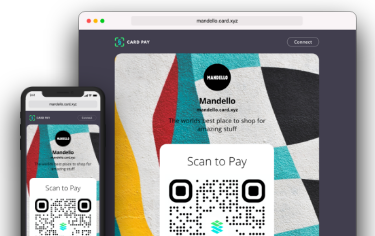
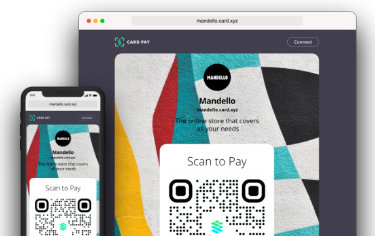
[CS-4638, CS-4639] Profile purchase flow copy changes (#1065)
* Renames ProfileCTAScreen to ProfilePurchaseScreen - for improved consistency with other profile screens;
Refactor uses of old name to new one.

* Updates copy on profile purchase feature.

* Adds disclaimer about purchase price in ProfileSlugScreen

* Updates profile preview images (new copy)

* Refactors useInitIAPProducts and usePurchaseProfile to return the localized price ready to use.

Changed region(s): [[0.44, 0.4746, 0.704, 0.5636], [0.1467, 0.6822, 0.264, 0.7415], [0.088, 0.6822, 0.1173, 0.7119]]

diff --git a/cardstack/src/hooks/usePurchaseProfile.ts b/cardstack/src/hooks/usePurchaseProfile.ts
@@ -1,6 +1,6 @@
 import { useNavigation } from '@react-navigation/native';
 import { useCallback, useEffect, useMemo } from 'react';
-import { useIAP } from 'react-native-iap';
+import { useIAP, Product } from 'react-native-iap';
 
 import { defaultErrorAlert } from '@cardstack/constants';
 import { Routes, useLoadingOverlay } from '@cardstack/navigation';
@@ -16,8 +16,37 @@ import { useMutationEffects } from '.';
 // TODO: Fetch Product IDs from hub.
 const skus = { profile: '0001' };
 
+const strings = {
+  loading: 'Loading...',
+  processingPurchase: 'Processing Purchase',
+};
+
+const defaultProfilePrice = '$0.99';
+
+// Helper function to find the profile product.
+const findProfileProduct = (products: Product[]) =>
+  products.find(
+    prod => prod.productId === skus.profile && prod.type === Device.iap.type
+  );
+
+const getLocalizedPriceOrFallback = (product?: Product) =>
+  product?.localizedPrice || defaultProfilePrice;
+
+/**
+ * useInitIAPProducts hook to be called as soon as possible to prepare for purchases.
+ * @returns profileProduct: Product, filtered product matching profile specs.
+ */
 export const useInitIAPProducts = () => {
-  const { getProducts } = useIAP();
+  const { getProducts, products } = useIAP();
+
+  const profileProduct = useMemo(() => findProfileProduct(products), [
+    products,
+  ]);
+
+  const localizedPrice = useMemo(
+    () => getLocalizedPriceOrFallback(profileProduct),
+    [profileProduct]
+  );
 
   /**
    * Fetches IAPs descriptions and succesfull purchases.
@@ -25,6 +54,8 @@ export const useInitIAPProducts = () => {
   useEffect(() => {
     getProducts(Object.values(skus));
   }, [getProducts]);
+
+  return { profileProduct, localizedPrice };
 };
 
 export const usePurchaseProfile = (profile: CreateProfileInfoParams) => {
@@ -52,6 +83,8 @@ export const usePurchaseProfile = (profile: CreateProfileInfoParams) => {
           status: isSuccess,
           callback: () => {
             if (currentPurchase) {
+              dismissLoadingOverlay();
+
               try {
                 // Valid purchases need to be finalized, otherwise they may reverse.
                 finishTransaction(currentPurchase, Device.iap.isConsumable);
@@ -90,12 +123,13 @@ export const usePurchaseProfile = (profile: CreateProfileInfoParams) => {
     )
   );
 
-  const profileProduct = useMemo(
-    () =>
-      products.find(
-        prod => prod.productId === skus.profile && prod.type === Device.iap.type
-      ),
-    [products]
+  const profileProduct = useMemo(() => findProfileProduct(products), [
+    products,
+  ]);
+
+  const localizedPrice = useMemo(
+    () => getLocalizedPriceOrFallback(profileProduct),
+    [profileProduct]
   );
 
   /**
@@ -104,8 +138,9 @@ export const usePurchaseProfile = (profile: CreateProfileInfoParams) => {
   const purchaseProfile = useCallback(async () => {
     if (profileProduct) {
       try {
-        showLoadingOverlay();
+        showLoadingOverlay({ title: strings.loading });
         await requestPurchase(profileProduct.productId);
+        showLoadingOverlay({ title: strings.processingPurchase });
       } catch (e) {
         dismissLoadingOverlay();
         logger.sentry('Error purchasing product', e);
@@ -154,5 +189,6 @@ export const usePurchaseProfile = (profile: CreateProfileInfoParams) => {
   return {
     purchaseProfile,
     profileProduct,
+    localizedPrice,
   };
 };

diff --git a/cardstack/src/screens/Profile/ProfilePurchaseScreen/useProfilePurchaseScreen.ts b/cardstack/src/screens/Profile/ProfilePurchaseScreen/useProfilePurchaseScreen.ts
@@ -1,5 +1,5 @@
 import { useNavigation, useRoute } from '@react-navigation/native';
-import { useCallback, useMemo } from 'react';
+import { useCallback } from 'react';
 
 import { useBooleanState, useRemoteConfigs } from '@cardstack/hooks';
 import { useCreateProfile } from '@cardstack/hooks/merchant/useCreateProfile';
@@ -14,12 +14,11 @@ import { isLayer1 } from '@cardstack/utils';
 import { Alert } from '@rainbow-me/components/alerts';
 import { useAccountSettings } from '@rainbow-me/hooks';
 
-const defaultPrice = '$0.99';
 interface NavParams {
   profile: CreateProfileInfoParams;
 }
 
-export const usePurchaseCTAScreen = () => {
+export const useProfilePurchaseScreen = () => {
   const { navigate } = useNavigation();
 
   const { network, accountAddress, nativeCurrency } = useAccountSettings();
@@ -41,18 +40,15 @@ export const usePurchaseCTAScreen = () => {
     params: { profile },
   } = useRoute<RouteType<NavParams>>();
 
-  const { purchaseProfile, profileProduct } = usePurchaseProfile(profile);
+  const { purchaseProfile, localizedPrice } = usePurchaseProfile(profile);
 
   const { purchaseWithPrepaidCard } = useCreateProfile(profile);
 
-  const localizedValue = useMemo(
-    () => profileProduct?.localizedPrice || defaultPrice,
-    [profileProduct]
-  );
-
   const onPressChargeExplanation = useCallback(() => {
-    navigate(Routes.PROFILE_CHARGE_EXPLANATION, { localizedValue });
-  }, [localizedValue, navigate]);
+    navigate(Routes.PROFILE_CHARGE_EXPLANATION, {
+      localizedValue: localizedPrice,
+    });
+  }, [localizedPrice, navigate]);
 
   const [
     inPurchaseOngoing,
@@ -83,7 +79,7 @@ export const usePurchaseCTAScreen = () => {
     inPurchaseOngoing,
     onPressPrepaidCards: purchaseWithPrepaidCard,
     showPrepaidCardOption,
-    localizedValue,
+    localizedPrice,
     triggerSkipProfileCreation,
   };
 };

diff --git a/cardstack/src/screens/Profile/ProfilePurchaseScreen/ProfilePurchaseScreen.tsx b/cardstack/src/screens/Profile/ProfilePurchaseScreen/ProfilePurchaseScreen.tsx
@@ -16,25 +16,25 @@ import {
 import profilePreview from '../../../assets/profile-preview.png';
 
 import { strings } from './strings';
-import { usePurchaseCTAScreen } from './usePurchaseCTAScreen';
+import { useProfilePurchaseScreen } from './useProfilePurchaseScreen';
 
 interface BenefitsItem {
   iconName: IconName;
   copy: string;
 }
 
-const PurchaseCTAScreen = () => {
+const ProfilePurchaseScreen = () => {
   const {
     onPressChargeExplanation,
     onPressBuy,
     inPurchaseOngoing,
-    localizedValue,
+    localizedPrice,
     onPressPrepaidCards,
     showPrepaidCardOption,
     triggerSkipProfileCreation,
-  } = usePurchaseCTAScreen();
+  } = useProfilePurchaseScreen();
 
-  const purchaseBtnLabel = `${strings.button.purchase} ${localizedValue}`;
+  const purchaseBtnLabel = `${strings.button.purchase} ${localizedPrice}`;
 
   const BenefitsItem = useCallback(
     ({ iconName, copy }: BenefitsItem) => (
@@ -115,4 +115,4 @@ const styles = StyleSheet.create({
   iapPreview: { width: '100%', flex: 0.5 },
 });
 
-export default PurchaseCTAScreen;
+export default ProfilePurchaseScreen;

diff --git a/cardstack/src/screens/Profile/ProfileSlugScreen/useProfileSlugScreen.ts b/cardstack/src/screens/Profile/ProfileSlugScreen/useProfileSlugScreen.ts
@@ -11,7 +11,7 @@ import { matchMinLength } from '@cardstack/utils/validators';
 import { strings, MIN_SLUG_LENGTH } from './strings';
 
 export const useProfileSlugScreen = () => {
-  useInitIAPProducts();
+  const { localizedPrice } = useInitIAPProducts();
 
   const { navigate } = useNavigation();
 
@@ -80,6 +80,11 @@ export const useProfileSlugScreen = () => {
     [isFetching, isLoading, slugValidation.slugAvailable]
   );
 
+  const purchaseDisclaimer = useMemo(
+    () => strings.purchaseDisclaimer(localizedPrice),
+    [localizedPrice]
+  );
+
   const { triggerSkipProfileCreation } = usePersistedFlagsActions();
 
   return {
@@ -89,5 +94,6 @@ export const useProfileSlugScreen = () => {
     slugValidation,
     canContinue,
     triggerSkipProfileCreation,
+    purchaseDisclaimer,
   };
 };

diff --git a/cardstack/src/screens/Profile/ProfileSlugScreen/strings.ts b/cardstack/src/screens/Profile/ProfileSlugScreen/strings.ts
@@ -4,10 +4,12 @@ export const MIN_SLUG_LENGTH = 4;
 
 export const strings = {
   header: 'Choose a unique ID that others can use to send you money',
+  purchaseDisclaimer: (price: string) =>
+    `* Creating a payment profile will require a one-time ${price} fee.`,
   input: {
     domainSuffix: cardSpaceDomain,
     description:
-      'This unique ID will be used to identify your payment profile. Please note this ID cannot be changed once the profile is created and may be used as a contact address.',
+      'This unique ID will be used to identify your payment profile.* Please note this ID cannot be changed once the profile is created and may be used as a contact address.',
   },
   errors: {
     minLength: `ID must be at least ${MIN_SLUG_LENGTH} characters long`,

diff --git a/cardstack/src/navigation/screenGroups/profile.tsx b/cardstack/src/navigation/screenGroups/profile.tsx
@@ -7,7 +7,7 @@ import {
 import {
   ProfileNameScreen,
   ProfileSlugScreen,
-  ProfilePurchaseCTA,
+  ProfilePurchaseScreen,
   ProfileChargeExplanationScreen,
 } from '@cardstack/screens';
 
@@ -24,8 +24,8 @@ export const ProfileScreenGroup = ({ Stack }: { Stack: StackType }) => (
     <Stack.Screen component={ProfileSlugScreen} name={Routes.PROFILE_SLUG} />
     <Stack.Screen component={ProfileNameScreen} name={Routes.PROFILE_NAME} />
     <Stack.Screen
-      component={ProfilePurchaseCTA}
-      name={Routes.PROFILE_PURCHASE_CTA}
+      component={ProfilePurchaseScreen}
+      name={Routes.PROFILE_PURCHASE}
     />
     <Stack.Screen
       component={ProfileChargeExplanationScreen}

diff --git a/cardstack/src/screens/Profile/ProfilePurchaseScreen/strings.ts b/cardstack/src/screens/Profile/ProfilePurchaseScreen/strings.ts
@@ -1,11 +1,11 @@
 import { cardSpaceSuffix } from '@cardstack/constants';
 
 export const strings = {
-  title: 'Purchase a CardSpace\nProfile to do the following:',
+  title: 'Create a payment profile to:',
   benefits: {
-    payments: 'Accept payments from customers',
-    cardProfile: `Setup a profile page on ${cardSpaceSuffix}`,
-    rewards: 'Earn Rewards in the Card Ecosystem',
+    payments: 'Send & receive payments',
+    cardProfile: `Get your own profile page on ${cardSpaceSuffix}`,
+    rewards: 'Earn rewards in the Cardstack ecosystem',
   },
   button: {
     purchase: 'Buy for',

diff --git a/cardstack/src/screens/Profile/ProfileSlugScreen/ProfileSlugScreen.tsx b/cardstack/src/screens/Profile/ProfileSlugScreen/ProfileSlugScreen.tsx
@@ -21,6 +21,7 @@ const ProfileSlugScreen = () => {
     canContinue,
     onContinuePress,
     triggerSkipProfileCreation,
+    purchaseDisclaimer,
   } = useProfileSlugScreen();
 
   return (
@@ -51,6 +52,9 @@ const ProfileSlugScreen = () => {
               {strings.input.description}
             </Text>
           </Container>
+          <Text paddingTop={2} variant="pageDescriptionSmall">
+            {purchaseDisclaimer}
+          </Text>
         </Container>
       </Container>
       <PageWithStackHeaderFooter>

diff --git a/cardstack/src/screens/Profile/index.ts b/cardstack/src/screens/Profile/index.ts
@@ -1,4 +1,4 @@
 export { default as ProfileNameScreen } from './ProfileNameScreen/ProfileNameScreen';
 export { default as ProfileSlugScreen } from './ProfileSlugScreen/ProfileSlugScreen';
-export { default as ProfilePurchaseCTA } from './PurchaseCTAScreen/PurchaseCTAScreen';
+export { default as ProfilePurchaseScreen } from './ProfilePurchaseScreen/ProfilePurchaseScreen';
 export { default as ProfileChargeExplanationScreen } from './ProfileChargeExplanationScreen/ProfileChargeExplanationScreen';

diff --git a/cardstack/src/screens/ProfileScreen/components/strings.ts b/cardstack/src/screens/ProfileScreen/components/strings.ts
@@ -7,7 +7,8 @@ export const strings = {
   example: 'Example:',
   switchToGnosisChain: 'Switch to Gnosis Chain to view your profile',
   switchNetwork: 'Switch Network',
-  ongoingProfileCreation: 'Creating your profile\nThis could take up to 1min',
+  ongoingProfileCreation:
+    'Creating your profile...\nThis could take up to 1 minute.',
   profileError: {
     title: 'Profile creation failed',
     message:

diff --git a/cardstack/src/screens/Profile/ProfileNameScreen/strings.ts b/cardstack/src/screens/Profile/ProfileNameScreen/strings.ts
@@ -11,6 +11,6 @@ export const strings = {
   input: {
     placeholder: 'Profile name',
     description:
-      'This name is only used for display purposes on your profile. You will need to use your unique ID to make and accept payments',
+      'This name is only used for display purposes on your profile. You will need to use your unique ID to make and accept payments.',
   },
 };

diff --git a/cardstack/src/screens/Profile/ProfileNameScreen/useProfileNameScreen.ts b/cardstack/src/screens/Profile/ProfileNameScreen/useProfileNameScreen.ts
@@ -64,7 +64,7 @@ export const useProfileNameScreen = () => {
   const onContinuePress = useCallback(() => {
     // creation flow
     if (!currentProfile.name) {
-      navigate(Routes.PROFILE_PURCHASE_CTA, { profile });
+      navigate(Routes.PROFILE_PURCHASE, { profile });
 
       return;
     }
